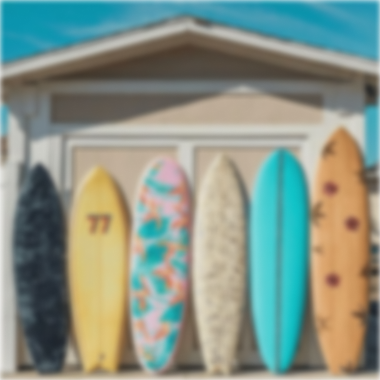
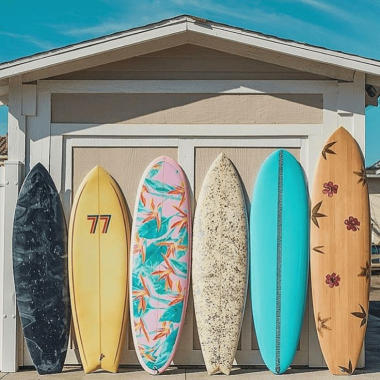
Surf-01: adds categories transitions

diff --git a/src/scss/categories.scss b/src/scss/categories.scss
@@ -1,7 +1,7 @@
 .categories {
     &__inner {
         padding-top: 50px;
-        padding-bottom: 50px;
+        padding-bottom: 30px;
     }
 
     &__title {
@@ -33,6 +33,7 @@
         line-height: 65px;
         text-transform: uppercase;
         color: $color-text-secondary;
+        
 
         &:last-child {
             margin-left: 30px;
@@ -45,6 +46,15 @@
             align-items: center;
             width: 100%;
             height: 100%;
+            transition: all ease-in 0.3s;
+
+            &:hover {
+                img {
+                    filter: blur(0px);
+                    transform: scale(1.01);
+                    transition: all ease-in 0.3s;
+                }
+            }
         }
 
         &__image {
@@ -52,7 +62,11 @@
             top: 0;
             left: 0;
             z-index: -1;
+            filter: blur(3px);
+            transition: all ease-in 0.3s;
         }
+
+        
     }
 }
 
@@ -102,6 +116,10 @@
 
 @media screen and (max-width: 320px) {
     .categories {
+        &__inner {
+            padding-top: 30px;
+            padding-bottom: 10px;
+        }
         &__title {
             font-size: 22px;
             line-height: 28px;

diff --git a/dist/css/style.css b/dist/css/style.css
@@ -1322,7 +1322,7 @@ body {
 }
 .categories__inner {
   padding-top: 50px;
-  padding-bottom: 50px;
+  padding-bottom: 30px;
 }
 .categories__title {
   margin-bottom: 30px;
@@ -1362,12 +1362,20 @@ body {
   align-items: center;
   width: 100%;
   height: 100%;
+  transition: all ease-in 0.3s;
+}
+.categories .category__link:hover img {
+  filter: blur(0px);
+  transform: scale(1.01);
+  transition: all ease-in 0.3s;
 }
 .categories .category__image {
   position: absolute;
   top: 0;
   left: 0;
   z-index: -1;
+  filter: blur(3px);
+  transition: all ease-in 0.3s;
 }
 
 @media screen and (max-width: 1440px) {
@@ -1401,6 +1409,10 @@ body {
   }
 }
 @media screen and (max-width: 320px) {
+  .categories__inner {
+    padding-top: 30px;
+    padding-bottom: 10px;
+  }
   .categories__title {
     font-size: 22px;
     line-height: 28px;

diff --git a/dist/css/style.min.css b/dist/css/style.min.css
@@ -1322,7 +1322,7 @@ body {
 }
 .categories__inner {
   padding-top: 50px;
-  padding-bottom: 50px;
+  padding-bottom: 30px;
 }
 .categories__title {
   margin-bottom: 30px;
@@ -1362,12 +1362,20 @@ body {
   align-items: center;
   width: 100%;
   height: 100%;
+  transition: all ease-in 0.3s;
+}
+.categories .category__link:hover img {
+  filter: blur(0px);
+  transform: scale(1.01);
+  transition: all ease-in 0.3s;
 }
 .categories .category__image {
   position: absolute;
   top: 0;
   left: 0;
   z-index: -1;
+  filter: blur(3px);
+  transition: all ease-in 0.3s;
 }
 
 @media screen and (max-width: 1440px) {
@@ -1401,6 +1409,10 @@ body {
   }
 }
 @media screen and (max-width: 320px) {
+  .categories__inner {
+    padding-top: 30px;
+    padding-bottom: 10px;
+  }
   .categories__title {
     font-size: 22px;
     line-height: 28px;
